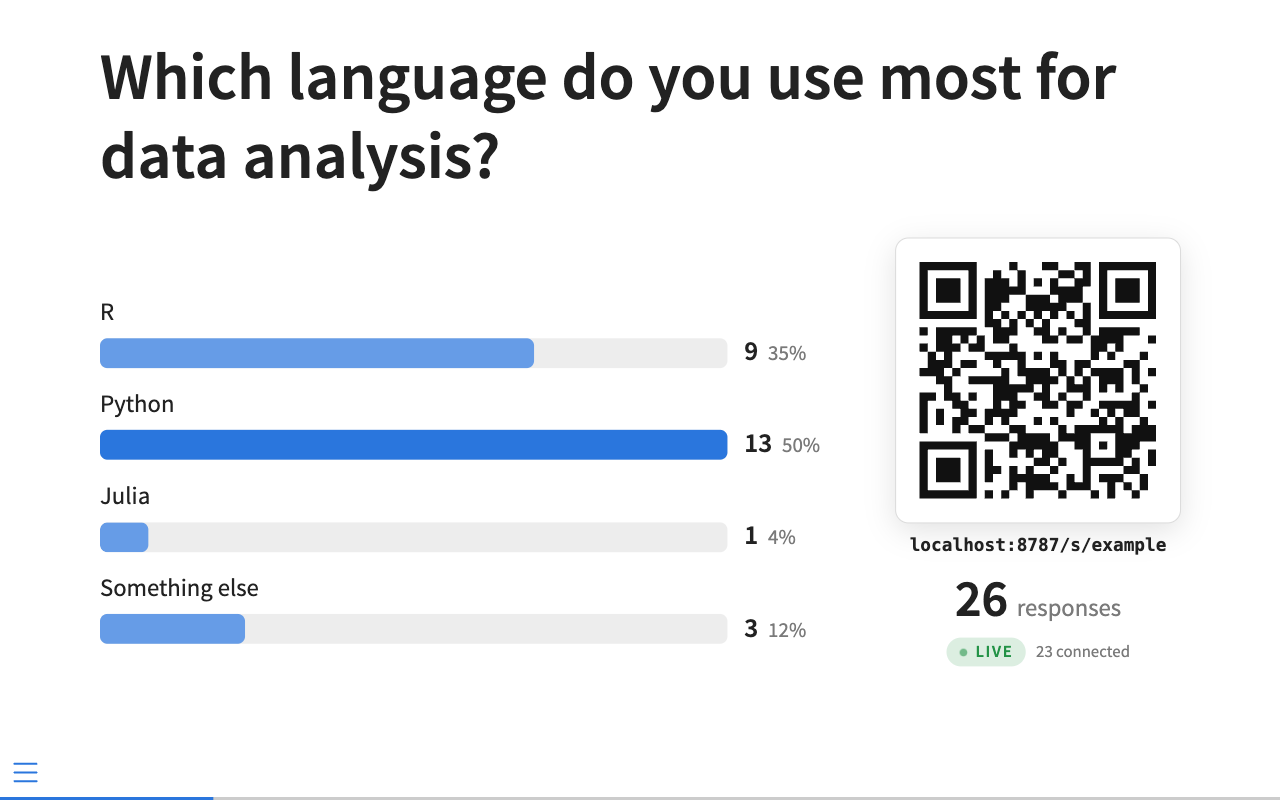
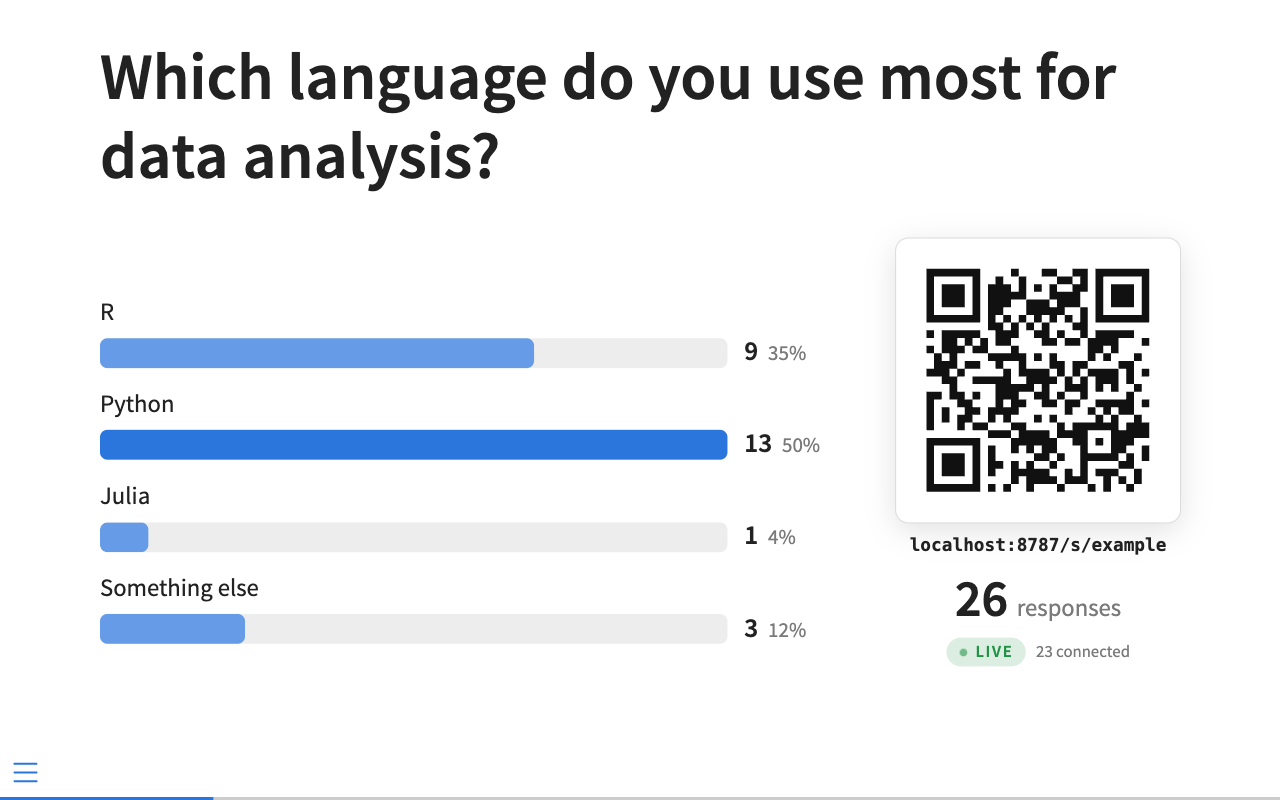
Widen the QR quiet zone to three modules
With the card padding that gives the standard four-module quiet zone.
Screenshots refreshed.

Changed region(s): [[0.7188, 0.3125, 0.9062, 0.625]]

diff --git a/src/deck/qr.ts b/src/deck/qr.ts
@@ -13,7 +13,7 @@ export function qrSvg(text: string, label: string): SVGSVGElement {
   qr.addData(text);
   qr.make();
   const n = qr.getModuleCount();
-  const margin = 2;
+  const margin = 3; // with the white card padding this gives the standard 4-module quiet zone
   const size = n + margin * 2;
 
   let d = "";

diff --git a/_extensions/live-poll/live-poll.js b/_extensions/live-poll/live-poll.js
@@ -1831,7 +1831,7 @@
     qr.addData(text);
     qr.make();
     const n = qr.getModuleCount();
-    const margin = 2;
+    const margin = 3;
     const size = n + margin * 2;
     let d = "";
     for (let row = 0;row < n; row++) {
